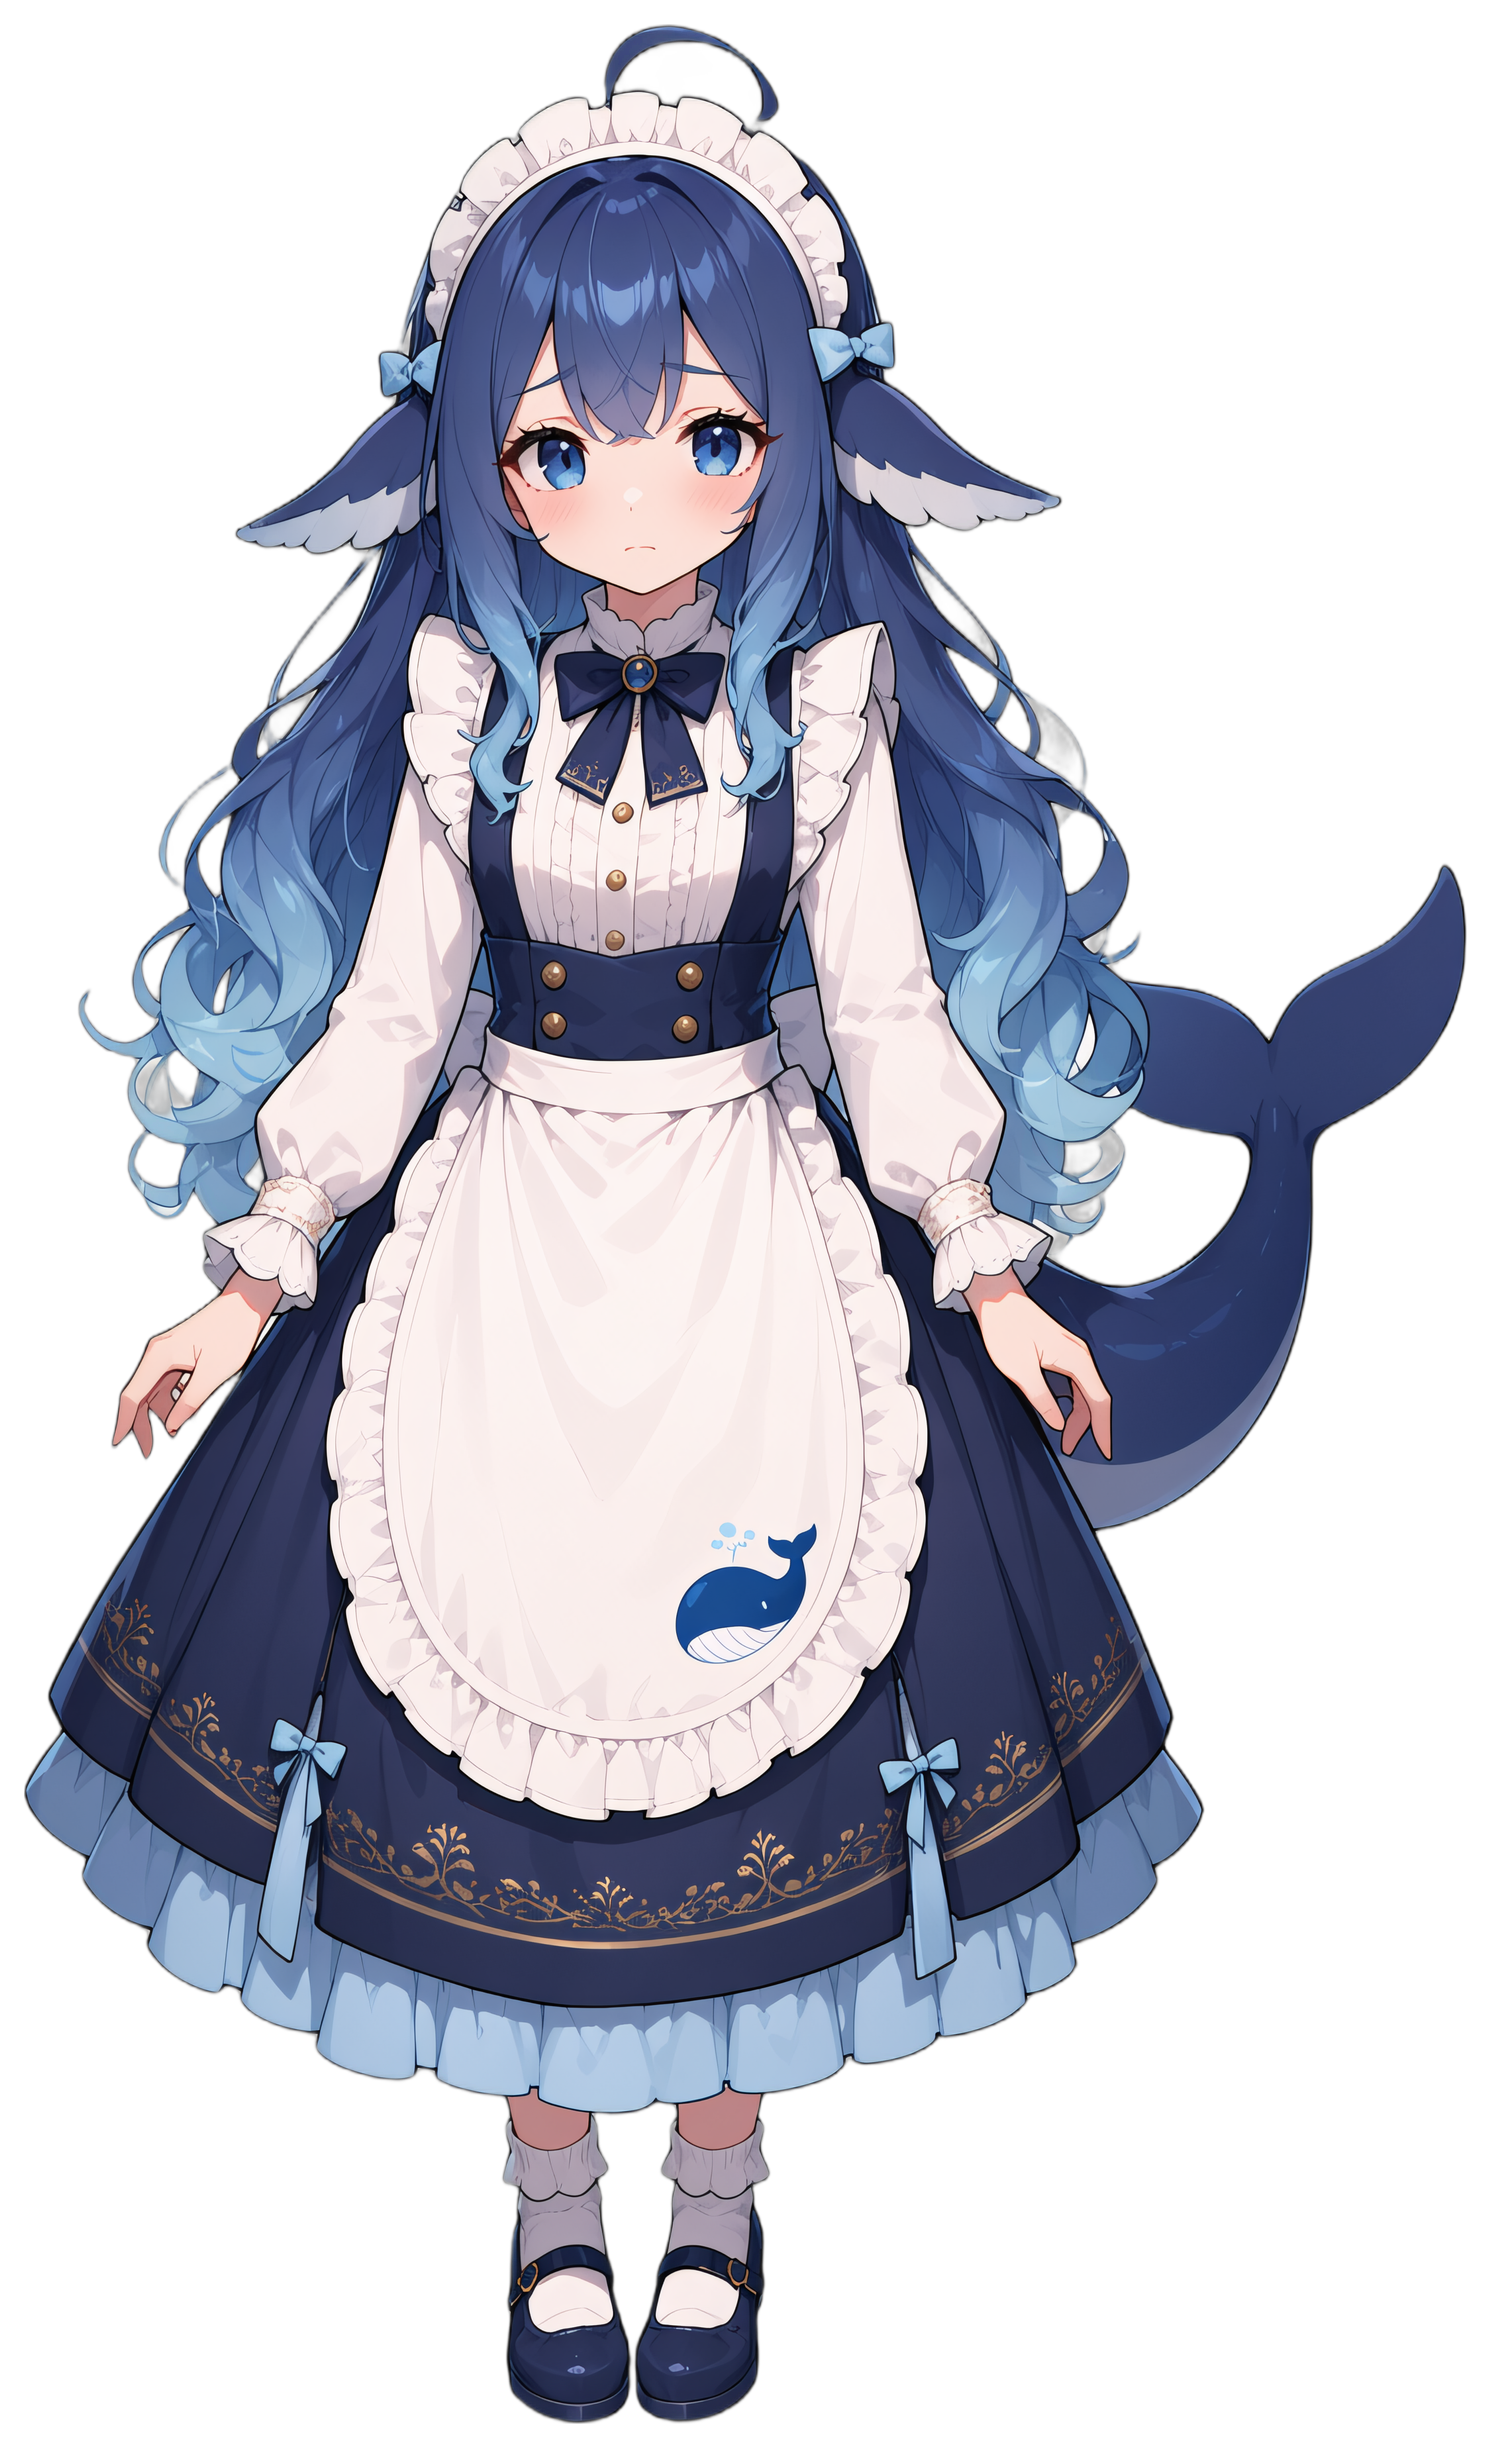
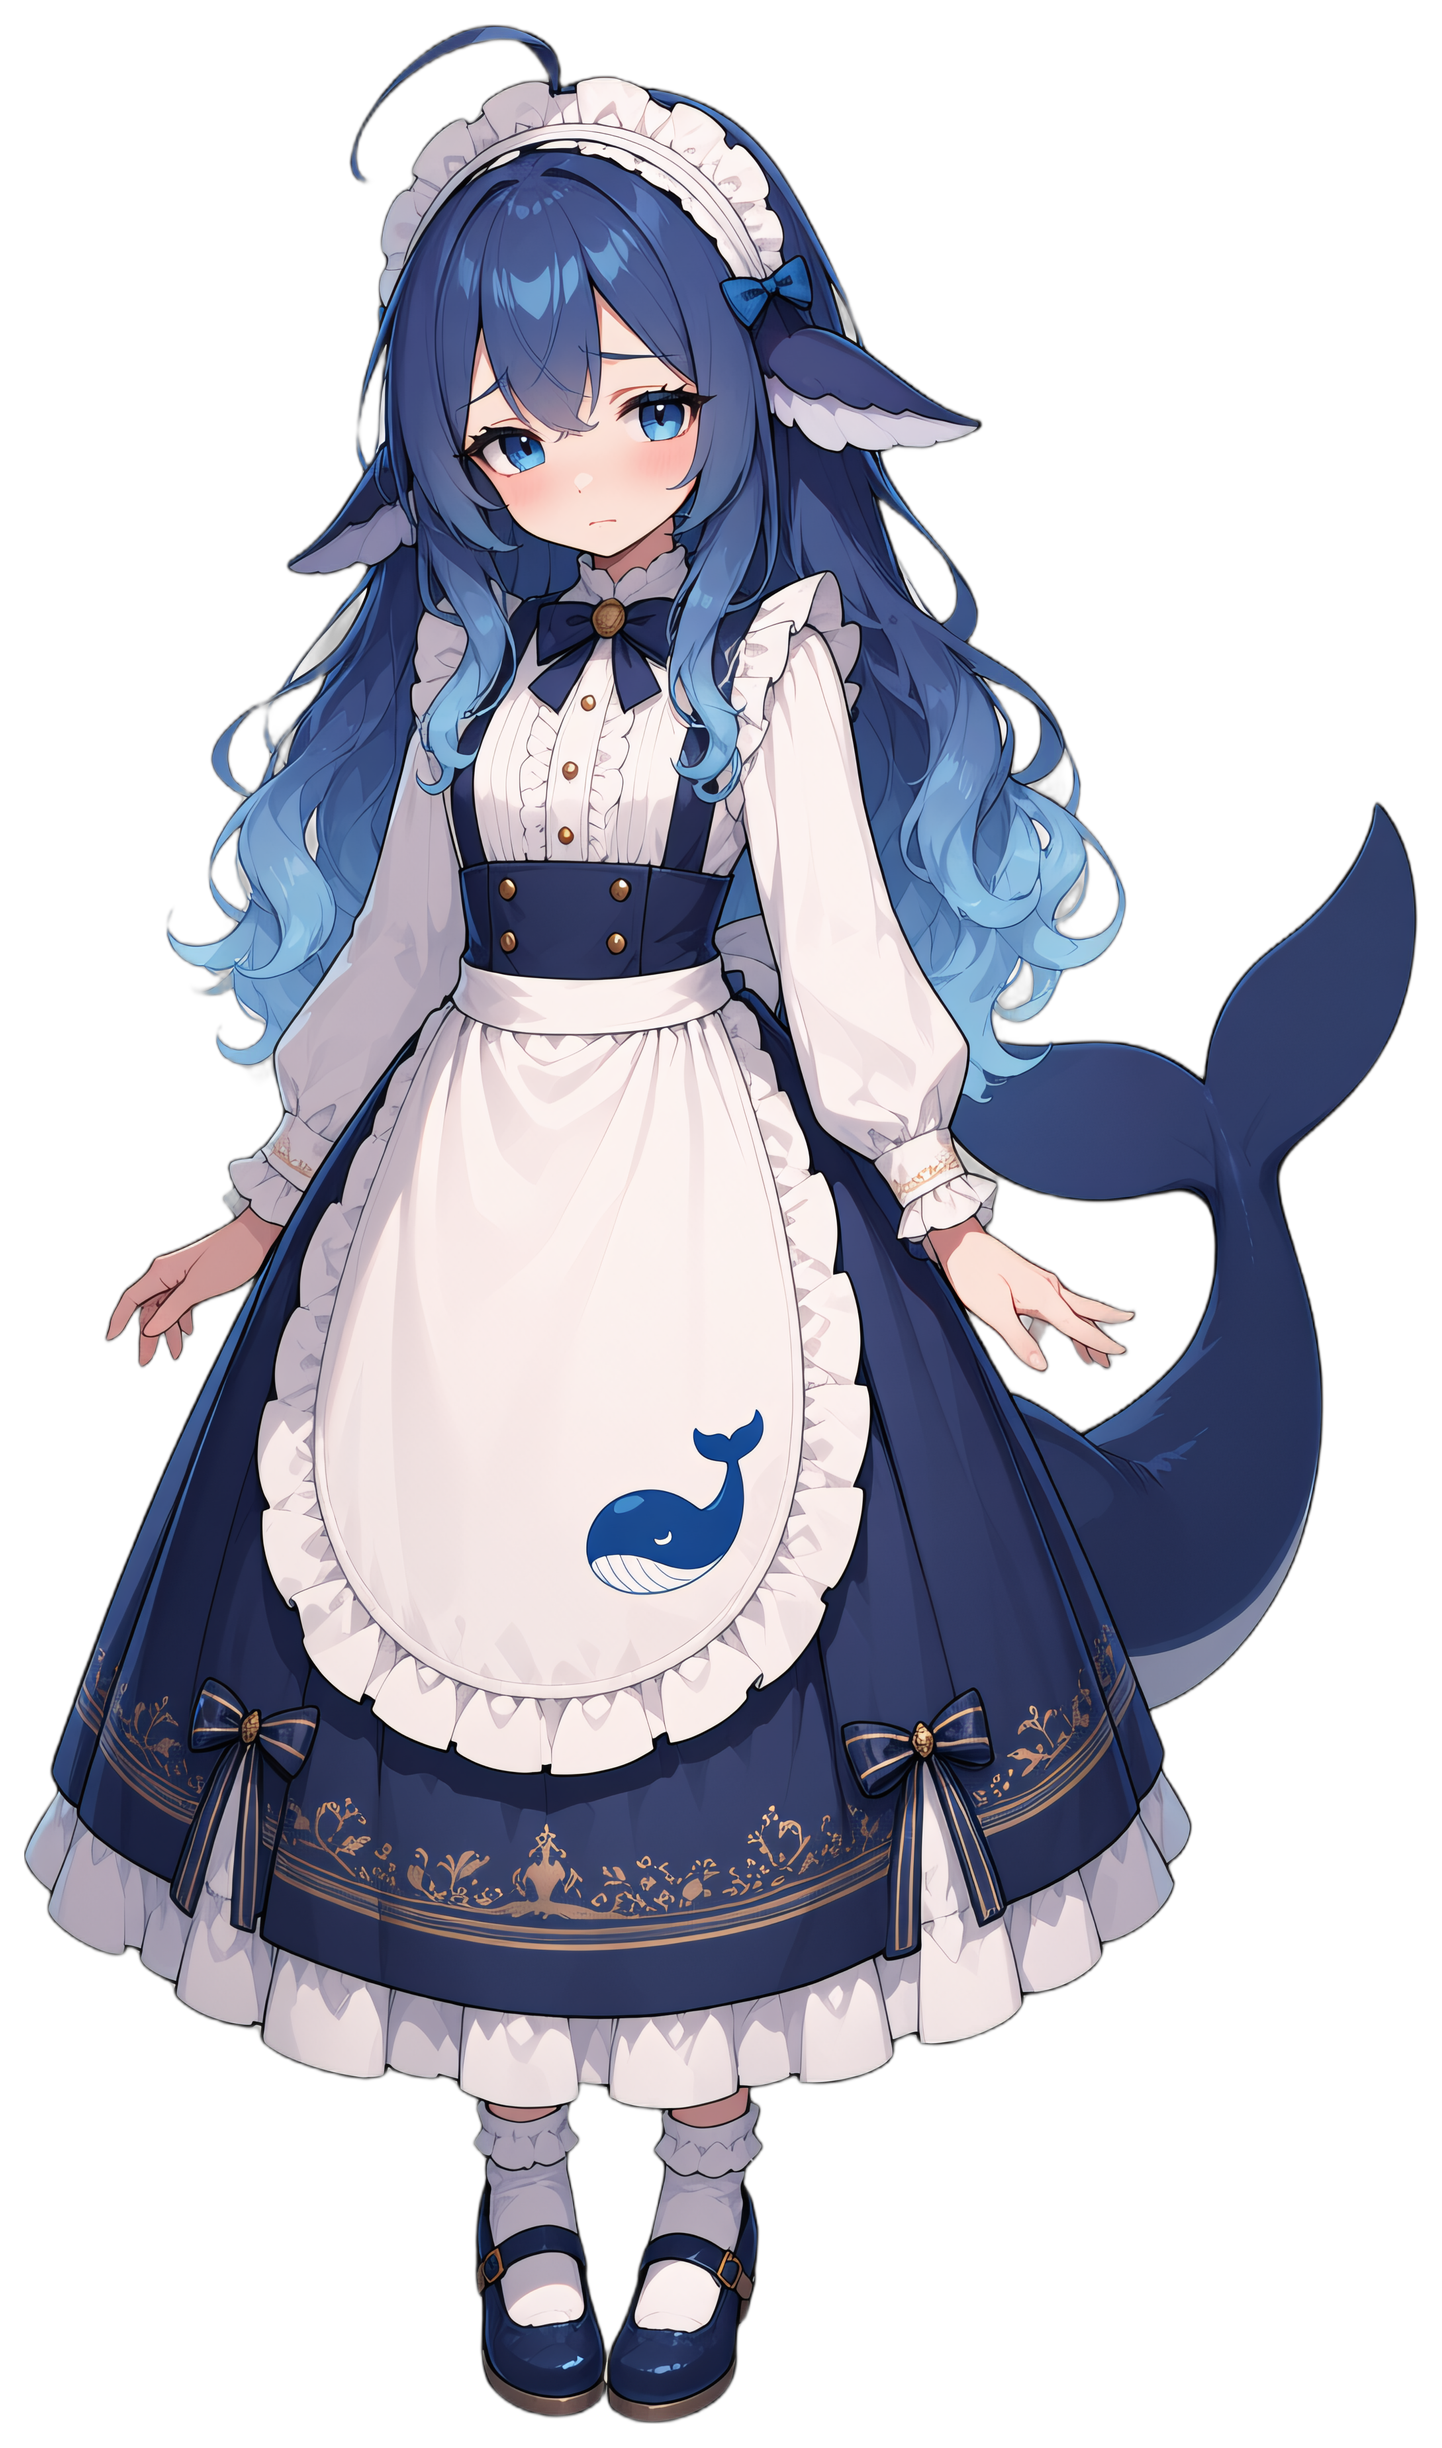
feat(art): 小鲸立绘定稿 —— 主人从 15 张候选里挑中 A4（seed 90611）
- 新增 tools/candidates.py：批量出候选（种子 × 姿势）并拼带编号的总表 + 脸部对比条，
  供人挑选；编号规则 <姿势><种子序号>（A/B/C = 垂手站姿/双手交叠/手提裙摆，P = 半身）
- 主人选定 A4 → 把 anima_produce.py 的 SEED_DEFAULT 锁到 90611，
  六张表情差分共用该种子、只换表情标签，构图/服装/比例完全一致
- 重出 assets/chara/ds_*.png（6 张，1641×2448）
- 设定表的三视图同步用该种子重出；设定要点改为硬折行（之前长句会冲出画布被裁）
- manifest 同步（ds_* 带 pipeline 标注，不挂草稿角标）

候选总表与脸部对比条：.train/candidates/sheet.png / faces.png（体积大，不进仓库）

diff --git a/tools/candidates.py b/tools/candidates.py
@@ -1,0 +1,132 @@
+#!/usr/bin/env python
+# -*- coding: utf-8 -*-
+"""
+Escape A÷ · tools/candidates.py —— 候选立绘批量生成（给人挑）
+
+用途：一次出一批"同设定、不同种子/姿势"的小鲸立绘，拼成带编号的总表，
+主人报编号，我再按选中的那张去出六表情差分。
+
+产出：
+  .train/candidates/<编号>.png        单张（已超分）
+  .train/candidates/sheet.png         带编号的总表（给人看的）
+
+用法：
+  python tools/candidates.py                       # 默认 4 种子 × 3 姿势 + 3 半身
+  python tools/candidates.py --seeds 6 --poses 3
+"""
+
+import argparse
+import io
+import os
+import sys
+import time
+
+ROOT = os.path.dirname(os.path.dirname(os.path.abspath(__file__)))
+sys.path.insert(0, os.path.join(ROOT, "tools"))
+import anima_produce as AP  # noqa: E402
+from PIL import Image, ImageDraw  # noqa: E402
+
+OUT = os.path.join(ROOT, ".train", "candidates")
+
+# 姿势：第 3 种照主人给的原版立绘（手提裙摆）
+POSES = [
+    ("A", "standing, arms at sides, front view, feet visible, full body"),
+    ("B", "standing, hands clasped in front, gentle smile, front view, feet visible, full body"),
+    ("C", "standing, one hand holding the skirt, smiling, front view, feet visible, full body"),
+]
+PORTRAIT = ("P", "upper body, portrait, looking at viewer, gentle smile, detailed face")
+
+# 质感标签（与 anima_produce 的 POS_SPRITE 同源，但不含姿势约束，姿势由上表给）
+STYLE = ("detailed, cinematic lighting, rim light, film grain, "
+         "high detail face, high detail clothes, sharp lines")
+
+
+def build_contact_sheet(files):
+    cols = 5
+    tiles = []
+    for cid, path in files:
+        im = Image.open(path).convert("RGB")
+        th = 560
+        tiles.append((cid, im.resize((int(im.width * th / im.height), th), Image.LANCZOS)))
+    tw = max(t[1].width for t in tiles)
+    rows = (len(tiles) + cols - 1) // cols
+    W = cols * (tw + 16) + 16
+    H = rows * (560 + 40) + 16
+    sheet = Image.new("RGB", (W, H), (10, 12, 16))
+    d = ImageDraw.Draw(sheet)
+    try:
+        from PIL import ImageFont
+        f = ImageFont.truetype(r"C:\Windows\Fonts\msyhbd.ttc", 30)
+    except Exception:
+        f = None
+    for i, (cid, im) in enumerate(tiles):
+        x = 16 + (i % cols) * (tw + 16)
+        y = 16 + (i // cols) * (560 + 40)
+        sheet.paste(im, (x, y + 30))
+        d.text((x, y), cid, font=f, fill=(235, 240, 248))
+    out = os.path.join(OUT, "sheet.png")
+    sheet.save(out)
+    return out
+
+
+def main():
+    ap = argparse.ArgumentParser()
+    ap.add_argument("--seeds", type=int, default=4)
+    ap.add_argument("--poses", type=int, default=3)
+    ap.add_argument("--portraits", type=int, default=3)
+    ap.add_argument("--base-seed", type=int, default=90200)
+    ap.add_argument("--steps", type=int, default=AP.STEPS_DEFAULT)
+    args = ap.parse_args()
+
+    os.makedirs(OUT, exist_ok=True)
+    files = []
+    n = 0
+    total = args.seeds * args.poses + args.portraits
+    for s in range(args.seeds):
+        seed = args.base_seed + s * 137
+        for p in range(min(args.poses, len(POSES))):
+            tag, pose = POSES[p]
+            cid = "%s%d" % (tag, s + 1)
+            n += 1
+            pos = (AP.POS_PREFIX + AP.DS_APPEAR + ", calm expression, closed mouth, "
+                   + pose + ", solo, one girl, only one person, centered composition, "
+                   "simple background, grey background, " + STYLE)
+            t0 = time.time()
+            wf = AP.wf_generate(pos, AP.NEG, seed, 1024, 1536, [(AP.LORA_DEEPSEEK, 1.0)],
+                                steps=args.steps, cfg=AP.CFG_DEFAULT)
+            img = Image.open(io.BytesIO(AP.run(wf))).convert("RGB")
+            try:
+                img = AP.upscale_to(img, 1500)
+            except Exception as e:
+                print("   超分跳过:", e)
+            path = os.path.join(OUT, cid + ".png")
+            img.save(path)
+            files.append((cid, path))
+            print("[%d/%d] %s  seed=%d  %.0fs" % (n, total, cid, seed, time.time() - t0), flush=True)
+
+    for s in range(args.portraits):
+        cid = "%s%d" % (PORTRAIT[0], s + 1)
+        n += 1
+        seed = args.base_seed + 900 + s * 137
+        pos = (AP.POS_PREFIX + AP.DS_APPEAR + ", calm expression, closed mouth, "
+               + PORTRAIT[1] + ", solo, one girl, centered composition, "
+               "simple background, grey background, " + STYLE)
+        t0 = time.time()
+        wf = AP.wf_generate(pos, AP.NEG, seed, 1024, 1536, [(AP.LORA_DEEPSEEK, 1.0)],
+                            steps=args.steps, cfg=AP.CFG_DEFAULT)
+        img = Image.open(io.BytesIO(AP.run(wf))).convert("RGB")
+        try:
+            img = AP.upscale_to(img, 1500)
+        except Exception as e:
+            print("   超分跳过:", e)
+        path = os.path.join(OUT, cid + ".png")
+        img.save(path)
+        files.append((cid, path))
+        print("[%d/%d] %s  seed=%d  %.0fs" % (n, total, cid, seed, time.time() - t0), flush=True)
+
+    sheet = build_contact_sheet(files)
+    print("\n总表 →", os.path.relpath(sheet, ROOT))
+
+
+if __name__ == "__main__":
+    sys.exit(main())

diff --git a/tools/make_sheets.py b/tools/make_sheets.py
@@ -145,7 +145,7 @@ def build_sheet(who):
     for i, (name, tag) in enumerate(VIEWS):
         p = os.path.join(SHEETS, "%s_%s.png" % (who, name))
         if not os.path.exists(p):
-            p = gen_view(who, name, tag, 71000 + i * 13 + (0 if who == "ds" else 500))
+            p = gen_view(who, name, tag, AP.SEED_DEFAULT + (0 if who == "ds" else 500))
         views.append(p)
 
     W, H = 2600, 2120
@@ -208,16 +208,10 @@ def build_sheet(who):
     ny = py + 40
     d.text((px, ny - 48), "设定要点", font=F(32, True), fill=(217, 119, 87))
     for line in info["notes"]:
-        cur = ""
-        for ch in line:
-            cur += ch
-            if len(cur) >= 17 and ch in "：，。、）（":
-                d.text((px, ny), cur, font=F(24), fill=(178, 190, 206))
-                ny += 36
-                cur = ""
-        if cur:
-            d.text((px, ny), cur, font=F(24), fill=(178, 190, 206))
-            ny += 36
+        # 硬折行：中文没有空格，按固定字数断行最稳（不依赖标点位置）
+        for i in range(0, len(line), 15):
+            d.text((px, ny), line[i:i + 15], font=F(23), fill=(178, 190, 206))
+            ny += 34
 
     d.text((60, H - 60), "本表由 tools/make_sheets.py 生成 —— 图来自 Anima 底模 + anima-deepseek LoRA，配色为图像实测值",
            font=F(22), fill=(120, 132, 150))
@@ -276,13 +270,13 @@ def main():
     if args.who in ("ds", "all"):
         if args.views_only:
             for i, (n, t) in enumerate(VIEWS):
-                gen_view("ds", n, t, 71000 + i * 13)
+                gen_view("ds", n, t, AP.SEED_DEFAULT)
         else:
             build_sheet("ds")
     if args.who in ("cl", "all"):
         if args.views_only:
             for i, (n, t) in enumerate(VIEWS):
-                gen_view("cl", n, t, 71500 + i * 13)
+                gen_view("cl", n, t, AP.SEED_DEFAULT + 500)
         else:
             build_sheet("cl")
     if args.who in ("cast", "all"):

diff --git a/tools/anima_produce.py b/tools/anima_produce.py
@@ -60,6 +60,9 @@ NEG = ("worst quality, low quality, score_1, score_2, score_3, blurry, jpeg arti
 # Turbo 12 步/CFG1 更快但颜色偏浅、线条略糙，留作快速迭代用）
 STEPS_DEFAULT = 30
 CFG_DEFAULT = 4.5
+# 立绘基准种子：主人从 15 张候选里挑中的 A4（见 tools/candidates.py 的编号规则）
+# 六张表情差分全部用这一个种子，只换表情标签 → 构图/服装/比例完全一致
+SEED_DEFAULT = 90611
 
 # 触发词 + 外观（按主人给的原版参考图逐项对齐：长裙/马甲金扣/大围裙鲸鱼徽记/
 # 腰部蝴蝶结飘带/大鲸尾/尖下垂鳍耳/细高呆毛/白色荷叶头饰+蓝蝴蝶结/白袜玛丽珍鞋）
@@ -379,7 +382,7 @@ def main():
         return probe(args)
 
     # VN 立绘差分：同角色所有表情共用同一 seed，只换表情标签（否则构图/服装长度都会变）
-    jobs = [dict(id=k, kind="chara", seed=88000, face=v) for k, v in FACES.items()]
+    jobs = [dict(id=k, kind="chara", seed=SEED_DEFAULT, face=v) for k, v in FACES.items()]
     if args.list:
         for j in jobs:
             print("%-16s seed=%s" % (j["id"], j["seed"]))
